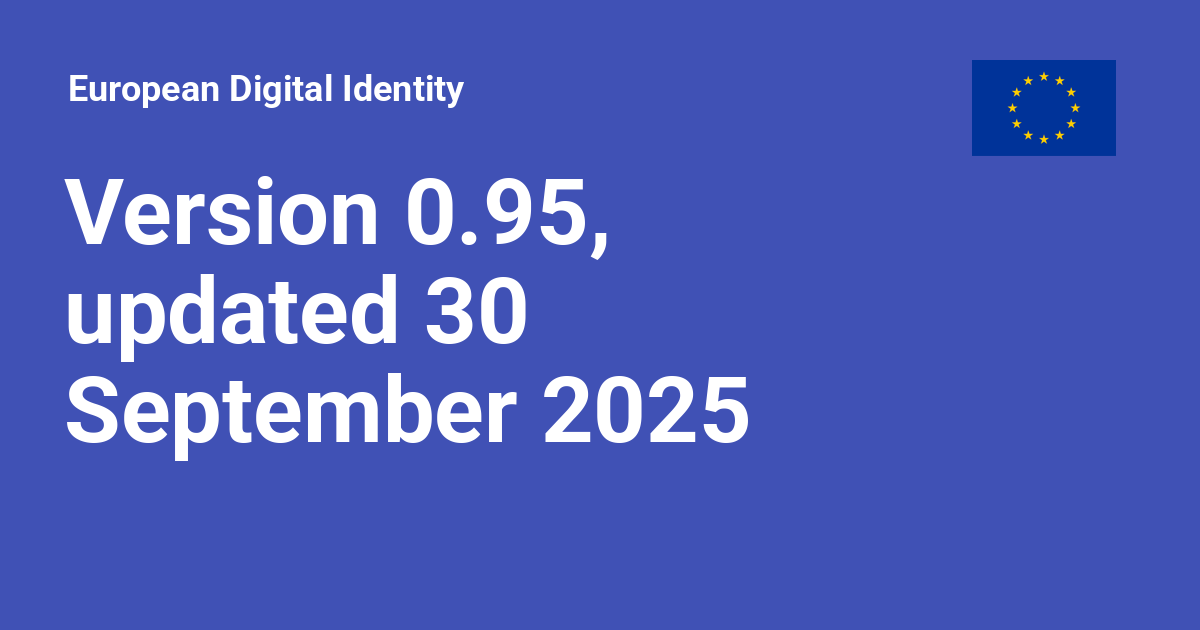
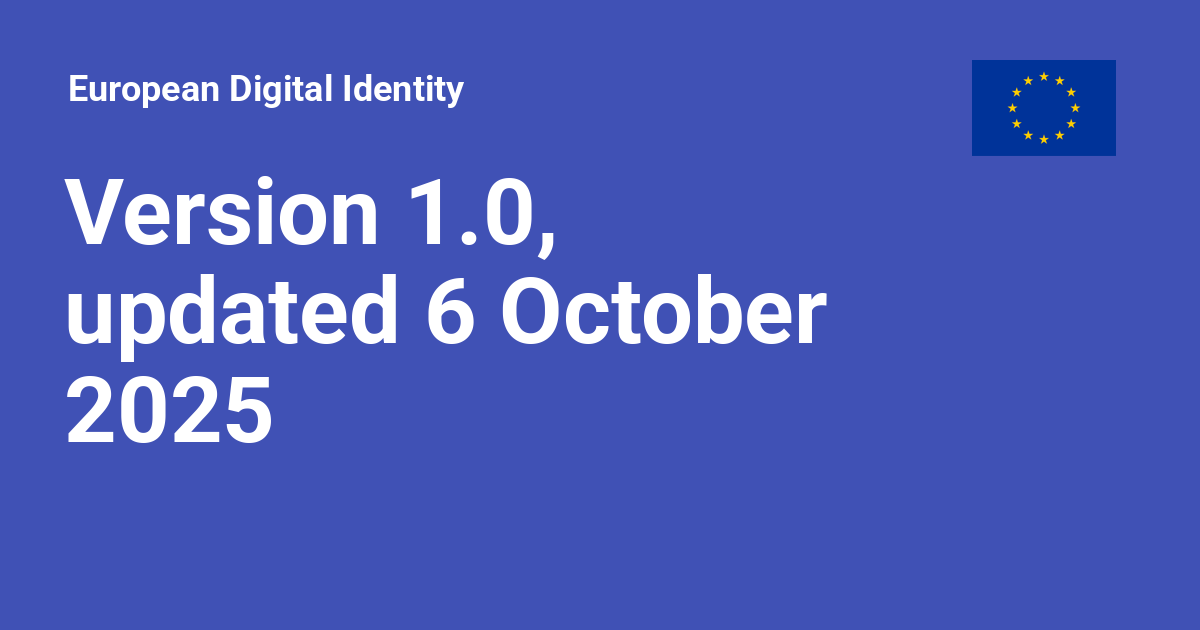
Deployed d1be808 to 1.0.0 with MkDocs 1.6.1 and mike 2.1.3

Changed region(s): [[0.0308, 0.573, 0.6475, 0.7238], [0.3392, 0.2714, 0.7092, 0.5429]]

diff --git a/1.0.0/discussion-topics/aa-support-of-electronic-payments-SCA-with-wallet/index.html b/1.0.0/discussion-topics/aa-support-of-electronic-payments-SCA-with-wallet/index.html
@@ -18,7 +18,7 @@
     
     
       
-        <title>Version 0.95, updated 30 September 2025 - European Digital Identity</title>
+        <title>Version 1.0, updated 6 October 2025 - European Digital Identity</title>
       
     
     
@@ -53,7 +53,7 @@
       
         <meta  property="og:type"  content="website" >
       
-        <meta  property="og:title"  content="Version 0.95, updated 30 September 2025 - European Digital Identity" >
+        <meta  property="og:title"  content="Version 1.0, updated 6 October 2025 - European Digital Identity" >
       
         <meta  property="og:description"  content="None" >
       
@@ -69,7 +69,7 @@
       
         <meta  name="twitter:card"  content="summary_large_image" >
       
-        <meta  name="twitter:title"  content="Version 0.95, updated 30 September 2025 - European Digital Identity" >
+        <meta  name="twitter:title"  content="Version 1.0, updated 6 October 2025 - European Digital Identity" >
       
         <meta  name="twitter:description"  content="None" >
       
@@ -96,7 +96,7 @@
     <div data-md-component="skip">
       
         
-        <a href="#version-095-updated-30-september-2025" class="md-skip">
+        <a href="#version-10-updated-6-october-2025" class="md-skip">
           Skip to content
         </a>
       
@@ -135,7 +135,7 @@
         <div class="md-header__topic" data-md-component="header-topic">
           <span class="md-ellipsis">
             
-              Version 0.95, updated 30 September 2025
+              Version 1.0, updated 6 October 2025
             
           </span>
         </div>
@@ -429,7 +429,7 @@
   
 
 
-<h1 id="version-095-updated-30-september-2025">Version 0.95, updated 30 September 2025</h1>
+<h1 id="version-10-updated-6-october-2025">Version 1.0, updated 6 October 2025</h1>
 <p><a href="https://github.com/eu-digital-identity-wallet/eudi-doc-architecture-and-reference-framework/discussions/582">Link to GitHub discussion</a></p>
 <h1 id="aa-support-of-electronic-payments-customer-authentication-sca-with-the-wallet">AA - Support of Electronic Payments Customer Authentication (SCA) with the Wallet</h1>
 <h2 id="1-introduction">1 Introduction</h2>
@@ -444,7 +444,7 @@ In addition, 'must' (non-capitalised) is used to indicate an external constraint
 <p>The document is structured as follows:</p>
 <ul>
 <li>
-<p>Chapter 2 presents the background and introduction the current discussion related to support of electronic payments customer authentication (SCA) with the Wallet.</p>
+<p>Chapter 2 presents the background and introduction to the current discussion related to support of electronic payments customer authentication (SCA) with the Wallet.</p>
 </li>
 <li>
 <p>Chapter 3 presents the use cases in the scope of discussion.</p>
@@ -460,7 +460,7 @@ In addition, 'must' (non-capitalised) is used to indicate an external constraint
 </li>
 </ul>
 <h2 id="2-background">2 Background</h2>
-<p>This topic (AA) is continuation of <a href="https://github.com/eu-digital-identity-wallet/eudi-doc-architecture-and-reference-framework-private/blob/main/docs/discussion-topics/w-transactional-data-for-payments-and-other-use-cases.md">Topic W (Transactional data for payments and other use cases)</a>.</p>
+<p>This topic (AA) is a continuation of <a href="https://github.com/eu-digital-identity-wallet/eudi-doc-architecture-and-reference-framework-private/blob/main/docs/discussion-topics/w-transactional-data-for-payments-and-other-use-cases.md">Topic W (Transactional data for payments and other use cases)</a>.</p>
 <p>The legal requirements applicable to Topic AA, were collected and discussed in Topic W related process.</p>
 <p>As an outcome of Topic W discussion, the set of new HLRs was introduced to ARF's [Topic 20].</p>
 <p>The purpose of Topic AA is to discuss further, detail, various aspects necessary to enable Wallet Solution Providers to build harmonised and interoperable solutions for Strong Customer Authentication in the context of PSD2 (payments and other use cases as defined by PSD2), basing on experience from the Large Scale Projects (EWC and Nobid).  </p>
@@ -468,7 +468,7 @@ In addition, 'must' (non-capitalised) is used to indicate an external constraint
 <p>Under the [European Digital Identity Regulation], a requirement has been introduced for providers in the banking and financial services sector to allow their users to perform strong user authentication with an EU Digital Identity Wallet (Article 5f(2)).</p>
 <p>At the same time, application of strong user authentication for this sector is governed by [PSD2] and [RTS SCA], which require Strong Customer Authentication (SCA) where the User:
 + (1) initiates an electronic payment transaction, or
-+ (2) accesses its payment account online, or
++ (2) accesses their payment account online, or
 + (3) carries out any action through a remote channel which may imply a risk of payment fraud or other abuses.</p>
 <p>One important part of SCA is that the User’s consent is valid only for a specific action for which it has been requested, and must not be used to authorise another action (or the same action multiple times). This is known as "Dynamic Linking".</p>
 <p>In the case of initiating an electronic payment transaction or a series thereof, payers can further give their consent either directly to their Account Servicing Payment Service Provider (ASPSP) (eg. bank), or via a payee or a Payment Initiation Service Provider (PISP)  (Article 64(2) of [PSD2]).</p>
@@ -506,26 +506,26 @@ In addition, 'must' (non-capitalised) is used to indicate an external constraint
 </tbody>
 </table>
 <p>All the details related to the format, syntax, processing and rendering rules of transactional data are to be defined in the related technical specification. For payment/PSD2 related SCA use cases, the specification will be included in "Technical Specification 12", that is already planned for development.   </p>
-<h3 id="42-dialog-messagess">4.2 Dialog messages(s)</h3>
-<p>Depending on the transaction type, the User will be displayed corresponding dialog messages. The general concept of processing and rendering such messages is already contained in the existing SUA requirements in [Topic 20].</p>
+<h3 id="42-dialogue-messagess">4.2 Dialogue messages(s)</h3>
+<p>Depending on the transaction type, the User will be displayed corresponding dialogue messages. The general concept of processing and rendering such messages is already contained in the existing SUA requirements in [Topic 20].</p>
 <p>However there are additional aspects to be considered, specific for payment/PSD2 context.</p>
 <p>The following chapters provide consideration on potential additional requirements. For each, the general question applies:</p>
 <p><em><strong>Question 2: Which of the following requirements should turn into HLRs?</strong></em></p>
 <h4 id="421-principle-of-clarity-and-unambiguity">4.2.1  Principle of Clarity and Unambiguity</h4>
-<p>Transaction data may contain elements not meant to be visually displayed to the user (e.g. a technical transaction id) and elements that are meant to be displayed. To comply with Article 5(1)(a) of [RTS SCA], the Wallet Units must display the latter to the User with absolute clarity and in an understandable manner (this includes localisation).</p>
+<p>Transaction data may contain elements not meant to be visually displayed to the User (e.g. a technical transaction id) and elements that are meant to be displayed. To comply with Article 5(1)(a) of [RTS SCA], the Wallet Units must display the latter to the User with absolute clarity and in an understandable manner (this includes localisation).</p>
 <p>The following requirements are being considered:
-+ Information Hierarchy: The Transaction Amount (including its ISO 4217 currency code or symbol) and the Payee's Name SHALL be the most prominent elements on the authorization screen. A clear visual hierarchy must be established through the strategic use of typography, such as increased font size, bold weight, and sufficient negative space, to draw the user's immediate and primary attention to this critical information.
-+ Data Fidelity: The information displayed to the user SHALL be an exact, unaltered representation of the data received in the transaction_data object from the Relying Party. The truncation, abbreviation, or summarization of the Payee's name or the transaction amount is strictly prohibited to prevent any possibility of misinterpretation.
-+ Focused Interface: The authorization screen SHALL be a dedicated, modal view focused exclusively on the transaction details and the required user action (consent or cancellation). It MUST be free of extraneous or distracting elements, such as advertisements, non-contextual notifications, or unrelated navigation options, which could obscure or detract from the payment information.
++ Information Hierarchy: The Transaction Amount (including its ISO 4217 currency code or symbol) and the Payee's Name SHALL be the most prominent elements on the authorization screen. A clear visual hierarchy must be established through the strategic use of typography, such as increased font size, bold weight, and sufficient negative space, to draw the User's immediate and primary attention to this critical information.
++ Data Fidelity: The information displayed to the User SHALL be an exact, unaltered representation of the data received in the transaction_data object from the Relying Party. The truncation, abbreviation, or summarization of the Payee's name or the transaction amount is strictly prohibited to prevent any possibility of misinterpretation.
++ Focused Interface: The authorization screen SHALL be a dedicated, modal view focused exclusively on the transaction details and the required User action (consent or cancellation). It MUST be free of extraneous or distracting elements, such as advertisements, non-contextual notifications, or unrelated navigation options, which could obscure or detract from the payment information.
 + Payment Instrument Identification: The specific Payment Instrument being used for the transaction (e.g., "Visa ending in 1234" or "Savings Account") SHALL be clearly displayed. This ensures the Payer is fully aware of which financial account the transaction will be debited from. Information on the Payment Instrument may come as part of the transaction data or from the SUA attestation.</p>
 <p><em>Note: In the opinion of the ARF team, the above requirements could be included a related Attestation Rulebook or Technical Specification potentially, but there is no need do introduce them as HLRs.</em></p>
 <h4 id="422-principle-of-explicit-and-informed-consent">4.2.2  Principle of Explicit and Informed Consent</h4>
 <p>The user's action must constitute unambiguous consent to authorize a specific payment transaction, as required by Article 64 of [PSD2].</p>
 <p>The following requirements are being considered:
 + Deliberate User Action: User consent SHALL be captured through an explicit and deliberate physical action (e.g., a tap on a button, a biometric verification). The interface MUST NOT utilize pre-selected checkboxes, toggles, or any design pattern that defaults to an affirmative consent state.
-+ Contextual Call-to-Action: The primary interactive element for granting consent (i.e., the confirmation button) SHALL have a descriptive label that explicitly states the user's intent and reiterates the core transaction detail. For example: "Confirm and Pay €100.00" or "Authorize Transaction". Generic labels such as "OK," "Continue," or "Submit", or misleading labels such as  “Present attestation”, are non-compliant as they lack the necessary context. This also applies in cases where the SUA Attestation is presented together with other attestations.
++ Contextual Call-to-Action: The primary interactive element for granting consent (i.e., the confirmation button) SHALL have a descriptive label that explicitly states the user's intent and reiterates the core transaction detail. For example: "Confirm and Pay €100.00" or "Authorize Transaction". Generic labels such as "OK," "Continue," or "Submit" or misleading labels such as  “Present attestation”, are non-compliant as they lack the necessary context. This also applies in cases where the SUA Attestation is presented together with other attestations.
 + Anti-fraud guidance: Wallets must be able to display a security hint on the transaction confirmation screen.
-+ Unambiguous Action Dichotomy: The interface must present a clear and balanced choice between approving and canceling the transaction. The interactive elements for these two distinct actions SHALL be visually differentiated in terms of style, color, and/or placement to prevent accidental authorization. The cancellation option must be equally prominent and accessible.</p>
++ Unambiguous Action Dichotomy: The interface must present a clear and balanced choice between approving and canceling the transaction. The interactive elements for these two distinct actions SHALL be visually differentiated in terms of style, colour, and/or placement to prevent accidental authorization. The cancellation option must be equally prominent and accessible.</p>
 <p><em>Note: In the opinion of the ARF team, the above requirements could be included in a related Attestation Rulebook or Technical Specification potentially, but there is no need do introduce them as HLRs.</em></p>
 <h4 id="423-principle-of-information-integrity-and-security-wysiwys">4.2.3 Principle of Information Integrity and Security (WYSIWYS)</h4>
 <p>To comply with Article 5(2) of the [RTS SCA], the interface must ensure the integrity of the displayed information throughout the authentication process, guaranteeing that what the user sees is precisely what is being cryptographically signed.</p>
@@ -561,6 +561,25 @@ In addition, 'must' (non-capitalised) is used to indicate an external constraint
 </ol>
 </blockquote>
 <p>The ARF does not envision any risk signals collection from the Wallet Units or making them available externally, there is no any HLRs related to the topic. Technically this is feasible and could be done at the Wallet Solution providers discretion. However, at the same time, there are strong legal requirements related to privacy protection directly in [European Digital Identity Regulation]. Finally, this aspect is outside the mandate for the ARF scope, and there is no intention to include any requirements related to risk signals. This does not however prevent Wallet Solution providers to include such additional features, the ARF does not prevent from doing so.  </p>
+<p><em>(Section added after the Focus Meeting 2:)</em></p>
+<p>Following the discussion it will be considered however to add requirements for the Wallet Solutions to check regularly a minimal set of security information about the User's device, as part of the support and maintenance of the Wallet Units. Such information would need to be taken into account to assess the security posture of a Wallet Unit, and in case the result is negative, to decide about possible invalidation (by revocation of WUA).</p>
+<p>So it is not envisied that the Relying Parties (financial institutions here) would get access such information direclty from the User device via the Wallet Instance, but the Wallet Solution Provider could do so instead. This would give financial institutions some possibility to manage transactional risks, as required by PSD2, with unified approach accross the EU (all Wallet Solutions) .</p>
+<p>Typical information and risk signals collected by the financtial institutions from User devices (in the context of SCA) are:
++ device information (OS, version, etc.),
++ behavioural information,
++ device fingerprinting,
++ geolocation (based on IP and GNSS positionning),
++ active phone call detection,
++ VPN detection,
++ incognito mode detection,
++ device rooting/jailbreaking detection,
++ emulator detection,
++ deepfake detection.</p>
+<p>However many of them are related to User behaviour patterns and thus will have no real value to the Wallet Solution Provider (to conlude on the security posture of the User's device). Taking into account this aspect, as well as priviacy issue, it seems to be reasonable to check (by the Wallet Solution Providers) only the following information:
++ device rooting/jailbreaking detection,
++ emulator detection,
++ incognito mode detection.</p>
+<p>This will be discussed in details in the context of Topic T - Support and maintenance by the Wallet Provider.</p>
 <h2 id="5-current-hlrs-and-proposals-of-changes">5 Current HLRs and Proposals of Changes</h2>
 <table>
 <thead>
@@ -578,7 +597,7 @@ In addition, 'must' (non-capitalised) is used to indicate an external constraint
 </tr>
 <tr>
 <td>SUA_02</td>
-<td>The Attestation Rulebook (see <a href="#a2312-topic-12---attestation-rulebooks">Topic 12</a> of a SUA attestation SHALL specify syntax and semantics of the transactional data associated with <strong>and intended for</strong> that attestation ~~, as well as all necessary requirements for Wallet Units to process that transactional data, at least regarding a) displaying the data to the User when obtaining consent for signing the data, b) processing (e.g., hashing) the data for inclusion in the device binding signature, and c) the scope of information to be logged about a SUA attestation presentation transaction by a Wallet Unit~~.</td>
+<td>The Attestation Rulebook (see <a href="#a2312-topic-12---attestation-rulebooks">Topic 12</a>) of a SUA attestation SHALL specify syntax and semantics of the transactional data associated with <strong>and intended for</strong> that attestation ~~, as well as all necessary requirements for Wallet Units to process that transactional data, at least regarding a) displaying the data to the User when obtaining consent for signing the data, b) processing (e.g., hashing) the data for inclusion in the device binding signature, and c) the scope of information to be logged about a SUA attestation presentation transaction by a Wallet Unit~~.</td>
 <td>Keep with proposed changes</td>
 </tr>
 <tr>
@@ -598,7 +617,7 @@ In addition, 'must' (non-capitalised) is used to indicate an external constraint
 </tr>
 <tr>
 <td>SUA_05</td>
-<td>The Wallet Unit SHALL include (a representation of) the transactional data received in a presentation request in the signature creation process used for device binding, using the private key of the requested SUA attestation, using the mechanisms provided for key binding in [SD-JWT-VC] and mdoc authentication in [ISO/IEC 18013-5], and complying with the applicable requirements in the Attestation Rulebook, see SUA_02 b). <em>Notes: - The resulting signature value and constitutes a proof of transaction and fulfils the requirement of the authentication code required in [PSD2]. - See also requirement OIA_02 in <a href="#a231-topic-1---accessing-online-services-with-a-wallet-unit">Topic 1</a>.</em></td>
+<td>The Wallet Unit SHALL include (a representation of) the transactional data received in a presentation request in the signature creation process used for device binding, using the private key of the requested SUA attestation, using the mechanisms provided for key binding in [SD-JWT-VC] and mdoc authentication in [ISO/IEC 18013-5], and complying with the applicable requirements in the Attestation Rulebook, see SUA_02 b). <em>Notes: - The resulting signature constitutes a proof of transaction. </em><em>This signature and/or other protocol items fulfil</em><em> ~~and fulfils~~ the requirement of the authentication code required in [PSD2]. - See also requirement OIA_02 in <a href="#a231-topic-1---accessing-online-services-with-a-wallet-unit">Topic 1</a>.</em></td>
 <td>Keep as-is</td>
 </tr>
 <tr>
@@ -615,6 +634,7 @@ In addition, 'must' (non-capitalised) is used to indicate an external constraint
 </table>
 <h2 id="6-relation-to-other-discussion-topics">6 Relation to Other Discussion Topics</h2>
 <p>The dialogue messages shall follow accessibility rules, which are discussed in Topic Q.</p>
+<p>The fraud signals check, as presented in section 4.4, will be  discussed in details in the context of Topic T - Support and maintenance by the Wallet Provider.</p>
 <h2 id="7-additions-and-changes-to-the-arf">7 Additions and Changes to the ARF</h2>
 <p>See sections 4 and 5 above. In addition, transactional data related aspects in the main text of the ARF will be updated accordingly.</p>
 <h2 id="8-references">8 References</h2>

diff --git a/1.0.0/discussion-topics/s-certificate-transparancy/index.html b/1.0.0/discussion-topics/s-certificate-transparancy/index.html
@@ -429,7 +429,7 @@
   
 
 
-<p>Version 0.4, updated 28 September 2025</p>
+<p>Version 0.5, updated 8 October 2025</p>
 <p><a href="https://github.com/eu-digital-identity-wallet/eudi-doc-architecture-and-reference-framework/discussions/584">Link to GitHub discussion</a></p>
 <h1 id="topic-s-certificate-transparency">Topic S - Certificate Transparency</h1>
 <h2 id="1-introduction">1 Introduction</h2>
@@ -534,7 +534,7 @@ reached.</p>
 <h3 id="33-discussion-topics">3.3 Discussion topics</h3>
 <p>Below is a list of topics to be addressed before drafting HLRs related to 
 Certificate Transparency:</p>
-<h4 id="eu-ct-log-infrastructure">EU CT log infrastructure</h4>
+<h4 id="331-eu-ct-log-infrastructure">3.3.1 EU CT log infrastructure</h4>
 <p>Currently, Certificate Transparency (CT) logs, operated by providers such as 
 Google and Cloudflare, are primarily used to record TLS certificates in the 
 Web PKI. For the EUDI ecosystem, a similar level of transparency and 
@@ -551,11 +551,10 @@ This distributed oversight ensures that the log remains immutable and
 append-only, and that no unauthorized modifications or omissions go unnoticed. 
 Finally, drawing from the Web PKI best practice, it is important that
  <strong>each certificate be registered in at least two independent CT logs</strong>. </p>
-<ul>
-<li>Should compliance be stated in the CPS of the access certificate provider which 
-CT log that it uses?</li>
-</ul>
-<h4 id="ct-log-usage">CT log usage</h4>
+<p>It is assumed that the new European CT log infrastructure will define what 
+ version of RFC 9162 and other implementation requirements such as the number 
+ of CT logs a CA issuing access certificates shall register with is defined.</p>
+<h4 id="332-ct-log-usage">3.3.2 CT log usage</h4>
 <p>In the Web PKI, browsers do not directly interact with Certificate Transparency 
 (CT) logs to verify the inclusion of a certificate. Instead, they <strong>trust the 
 Signed Certificate Timestamp (SCT)</strong> provided by the log, effectively treating 
@@ -571,19 +570,16 @@ interactions with the log provider. However, the <strong>size and scalability of
 such logs are currently unpredictable</strong>, and this approach may prove 
 impractical depending on how large the logs grow in practice.  </p>
 <p>Therefore, a Wallet Instance shall only verify that an access certificate 
-contains a valid SCT. At the same time, Relying Parties and access certificate 
+contains one or more valid SCT. At the same time, Relying Parties and access certificate 
 issuers shall cooperate with monitoring services to detect potentially mis-issued certificates. </p>
-<h4 id="security-threats">Security threats</h4>
+<h4 id="333-security-threats">3.3.3 Security threats</h4>
 <p>It should be noted that Web PKI CT logs are already used by malicious entities
 for detecting new domains (see for example, Kondracki et al. "Uninvited Guests: 
 Analyzing the Identity and Behavior of Certificate Transparency Bots", in Usenix 
 Security, 2022)</p>
-<p>However it is not expected this to be case  for CT logs got access certificates, 
-since the list of access certificates is already public. </p>
-<ul>
-<li>That all access certificates are collated in one or more place – does this pose any threat?</li>
-</ul>
-<h4 id="incidence-response">Incidence response</h4>
+<p>However, this is not expected to be case for CT logs for access certificates, 
+as the list of access certificates is already public. Collating all access certificates in one or more CT logs does not seem to pose any threat as this information is already publicly available.</p>
+<h4 id="334-incident-response">3.3.4 Incident response</h4>
 <p>It is important to recognise that <strong>Certificate Transparency (CT) logs do 
 not prevent the issuance or logging of malicious certificates</strong>. Instead, their 
 purpose is to <strong>make such misissuance detectable</strong> by ensuring that every 
@@ -593,15 +589,17 @@ cannot be removed from the log</strong>, even if it is later identified as malic
 or unauthorized. This characteristic is essential for ensuring the integrity of 
 the log, but it also creates the need for strong operational responses. To gain 
 the full benefits of CT, an <strong>efficient detection and revocation mechanism</strong> 
-must be in place. Detection ensures that malicious or misissued certificates 
+must be in place. Detection ensures that malicious or mis-issued certificates 
 are quickly identified, while revocation mechanisms ensure that these 
 certificates can no longer be used to impersonate domains or services. Without 
 such measures, the visibility provided by CT would not translate into 
 effective protection.</p>
-<ul>
-<li>Should there be a process, besides the CT log, to handle misbehaving CA’s e.g. exclusion from Trusted Lists?</li>
-</ul>
-<p>There might be other questions to be considered regarding Certificate Transparency?</p>
+<p>Monitors shall notify both CA and RP of any suspicious registrations, such as an 
+entry for a RP that is not part of the authoritative registry or trusted list. </p>
+<p>If an RP discovers an entry in the CT log stating that an access certificate has been issued to it incorrectly, the RP shall immediately request its revocation. 
+If revocation of the certificate is not done promptly and according to the CPS of 
+the CA, the incident can be escalated to the service operator of the Trusted List or MS.</p>
+<p>Only the RP to which an access certificate has been incorrectly issued can take any action.</p>
 <h2 id="4-high-level-requirements">4  High Level Requirements</h2>
 <p>Currently no High-Level Requirements for Certificate Transparency are included in the ARF.</p>
 <h3 id="41-possible-hlrs">4.1 Possible HLRs</h3>
@@ -619,31 +617,33 @@ effective protection.</p>
 </tr>
 <tr>
 <td>CT_02</td>
-<td>In case a CT log provider is available, the Access CA's SHALL act as monitors in the CT eco-system</td>
+<td>A CA issuing access certificates SHALL include a description in its CPS how all access certificates are logged according to RFC 9162</td>
 </tr>
 <tr>
 <td>CT_03</td>
-<td>The issuing CA SHALL include at least one Signed Certificate Timestamp (SCT) in the certificate</td>
+<td>In case a CT log provider is available, the Access CA's SHALL act as monitors in the CT eco-system</td>
 </tr>
 <tr>
 <td>CT_04</td>
-<td>The Wallet Unit SHALL check that the access certificate includes at least one Signed Certificate Timestamp (SCT)</td>
+<td>The issuing CA SHALL include at least one Signed Certificate Timestamp (SCT) in the certificate</td>
 </tr>
 <tr>
 <td>CT_05</td>
-<td>A Wallet Unit SHALL not communicate with a RP which access certificate does not include a SCT (Can this be “outsourced” to other entity?)</td>
+<td>The Wallet Unit SHALL check that the access certificate includes at least one Signed Certificate Timestamp (SCT)</td>
 </tr>
 <tr>
-<td>CT_NN</td>
-<td>...</td>
+<td>CT_06</td>
+<td>A Wallet Unit SHALL not communicate with a RP which access certificate does not include a SCT</td>
 </tr>
 </tbody>
 </table>
 <p>The HLRs should address:
-1. How the certificate verifier perform checks against the CT log? Directly or via a fraud detection system?
+1. How the certificate verifier performs checks against the CT log? Directly or via a fraud detection system?
 2. What checks that should be performed and what constitutes a malicious entry?
 3. What protocols that should be offered by a fraud detection system to all certificate verifiers?</p>
-<h3 id="42-proposed-arf-changes">4.2 Proposed ARF changes</h3>
+<h3 id="42-version-of-rfc-9162-in-cir-eu-2025848">4.2 Version of RFC 9162 in CIR (EU) 2025/848</h3>
+<p>The CIR clearly states that version 2 of RFC 9162 shall be used. From comments received it seems that the previous version is implemented and used. As version 2 includes substantial improvements and the Commission might be developing a European CT log infrastructure it should be a task for this initiative to decide which version to use. Consideration of which version to use is dependent on if existing services (version 1) from Cloudflare and Google are to be used.</p>
+<h3 id="43-proposed-arf-changes">4.3 Proposed ARF changes</h3>
 <p>It is planned to introduce a new section in the ARF on Certificate Transparency. This new section will describe aspects of CA’s issuing access certificates.</p>
 <p>In addition to these planned changes, further changes on this subject will follow the outcome of the discussion.</p>
 <h2 id="5-references">5 References</h2>
